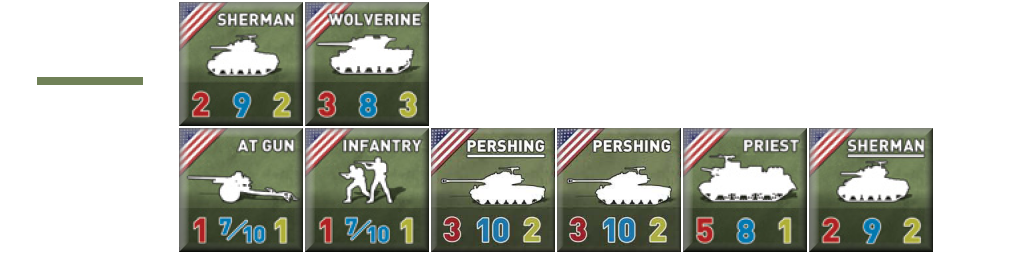
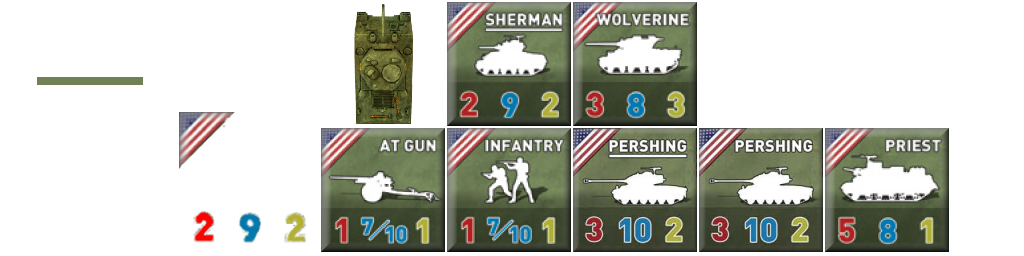
try new sherman png

diff --git a/core/src/ch/asynk/tankontank/game/GameFactory.java b/core/src/ch/asynk/tankontank/game/GameFactory.java
@@ -93,7 +93,7 @@ public class GameFactory implements Board.TileBuilder, Disposable
                 u = new Unit(Army.US, false, 5, 8, 1, usAtlas.findRegion("priest"), usAtlas.findRegion("head"), unitAtlas);
                 break;
             case US_SHERMAN:
-                u = new Unit(Army.US, false, 2, 9, 2, usAtlas.findRegion("sherman"), usAtlas.findRegion("head"), unitAtlas);
+                u = new Unit(Army.US, false, 2, 9, 2, usAtlas.findRegion("sherman"), usAtlas.findRegion("sherman-head"), unitAtlas);
                 break;
             case US_SHERMAN_HQ:
                 u = new Unit(Army.US, true, 2, 9, 2, usAtlas.findRegion("sherman-hq"), usAtlas.findRegion("head"), unitAtlas);
